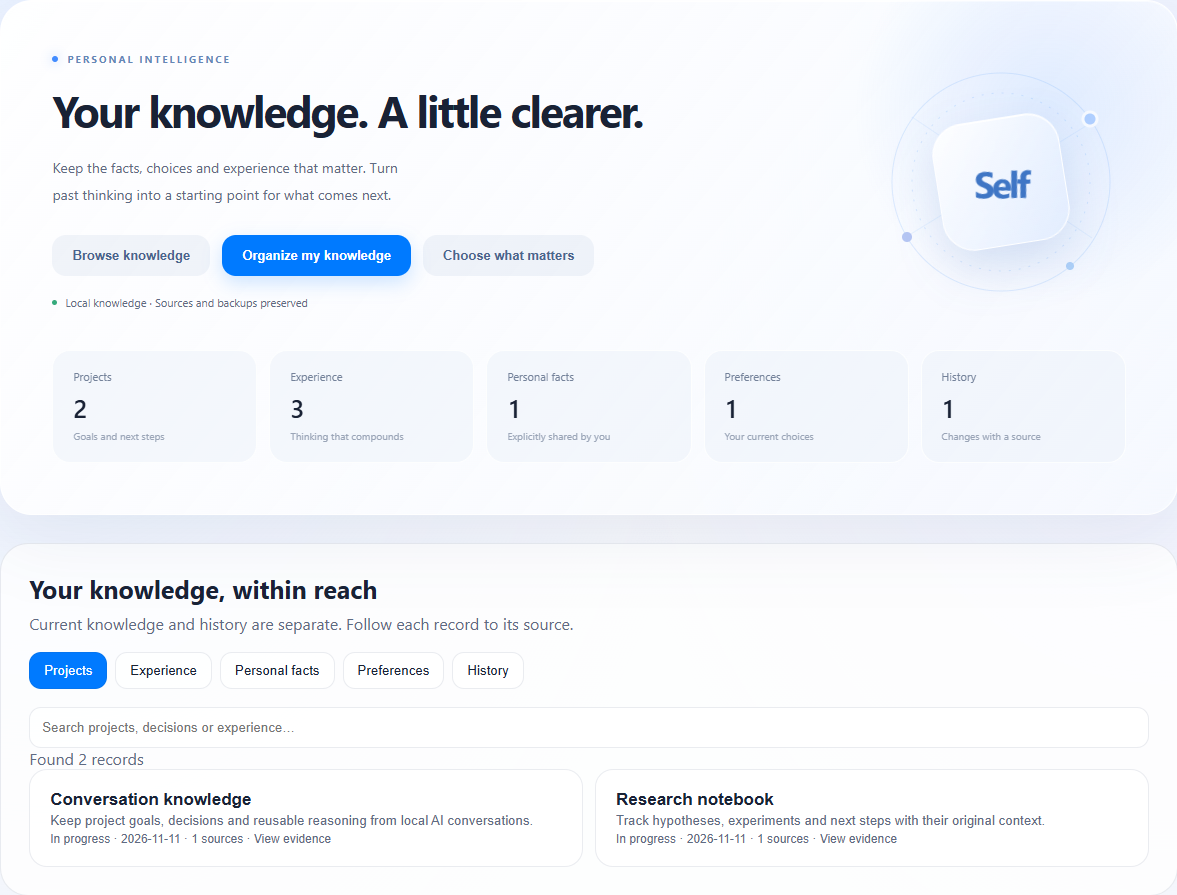
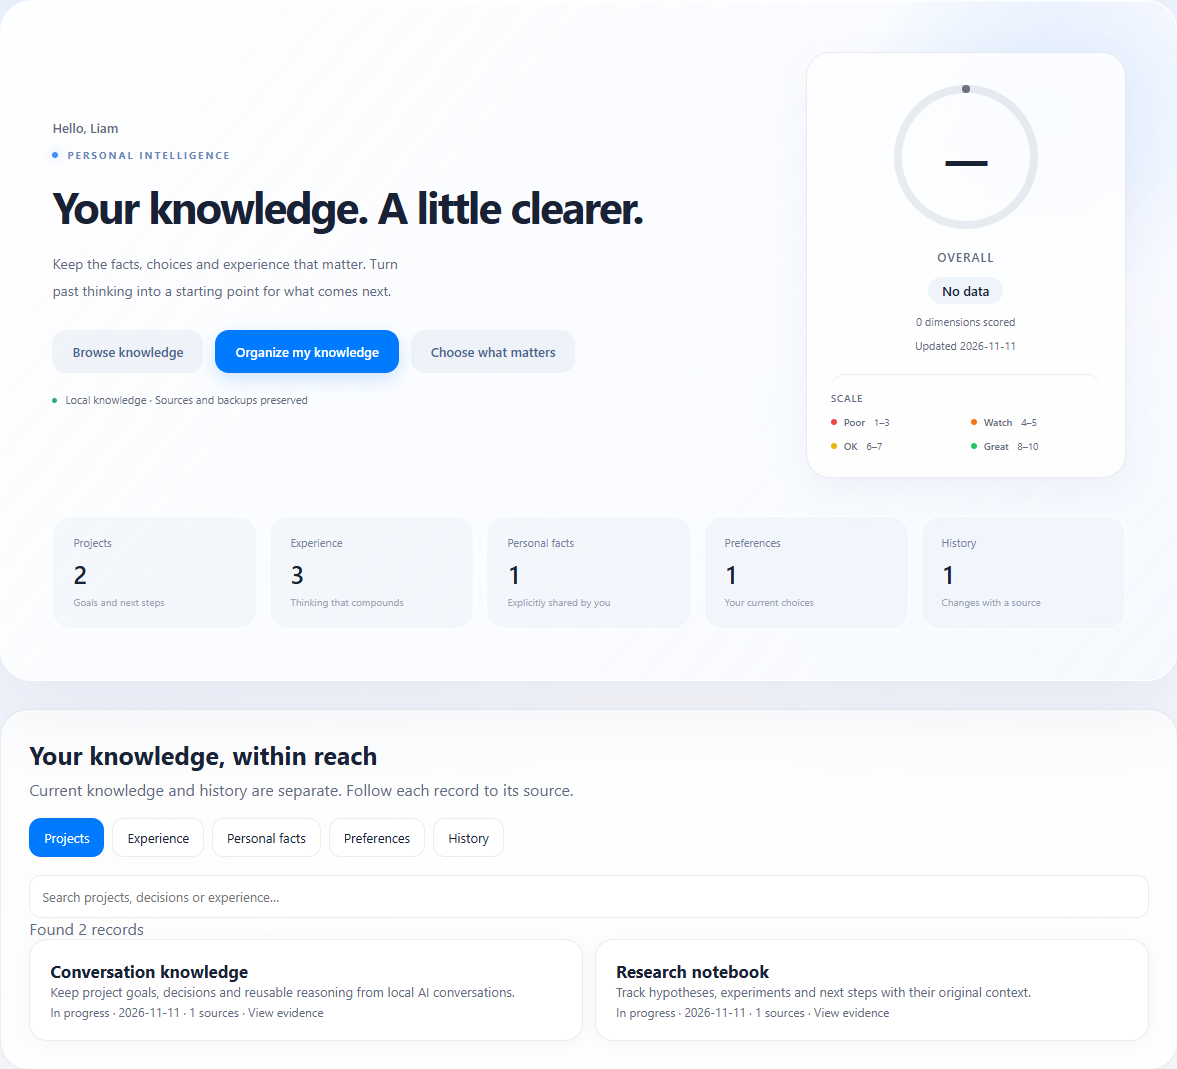
fix: localize knowledge import settings and refresh the dashboard screenshot

diff --git a/knowledge_ui.py b/knowledge_ui.py
@@ -1,34 +1,61 @@
 """Shared dashboard controls, embedded unchanged by the dashboard generator."""
-CONTROLS = r'''<button class="harvest-btn" onclick="openKnowledgeSettings()">整理设置</button>
+def refresh_controls(html):
+    """Refresh settings in previously generated dashboards without a new import."""
+    import re
+    return re.sub(r'<button class="harvest-btn" onclick="openKnowledgeSettings\(\)"[^>]*>.*?<script>\s*let knowledgeOperation.*?</script>',
+                  lambda _:CONTROLS.rstrip(),html,count=1,flags=re.S)
+
+CONTROLS = r'''<button class="harvest-btn" onclick="openKnowledgeSettings()" data-zh="整理设置" data-en="Import settings">Import settings</button>
 <dialog id="knowledge-settings" style="background:var(--bg,#fff);color:var(--text,#222);border-radius:16px;max-width:560px;padding:24px">
-  <h3>知识库整理设置</h3>
-  <p>关注领域决定保留范围；原始对话保留。详细程度控制表达粒度，不设知识总数。</p>
+  <h3 data-zh="知识库整理设置" data-en="Knowledge import settings">Knowledge import settings</h3>
+  <p data-zh="关注领域决定保留范围；原始对话保留。详细程度控制表达粒度，不设知识总数。" data-en="Focus domains determine what to retain. Original conversations are preserved. Detail controls how much context to keep, not the number of records.">Focus domains determine what to retain. Original conversations are preserved. Detail controls how much context to keep, not the number of records.</p>
   <div id="knowledge-domains"></div>
-  <p><label>自定义领域（逗号分隔） <input id="knowledge-custom" placeholder="例如：音乐, 旅行"></label></p>
-  <p><label>详细程度 <select id="knowledge-detail"><option value="concise">简洁</option><option value="balanced">标准</option><option value="detailed">详细</option></select></label></p>
+  <p><label><span data-zh="自定义领域（逗号分隔）" data-en="Custom domains (comma-separated)">Custom domains (comma-separated)</span> <input id="knowledge-custom" placeholder="For example: music, travel"></label></p>
+  <p><label><span data-zh="详细程度" data-en="Detail level">Detail level</span> <select id="knowledge-detail"><option value="concise" data-zh="简洁" data-en="Concise">Concise</option><option value="balanced" data-zh="标准" data-en="Balanced">Balanced</option><option value="detailed" data-zh="详细" data-en="Detailed">Detailed</option></select></label></p>
   <p id="knowledge-status" role="status"></p>
-  <button onclick="saveKnowledgeSettings(false)">保存设置</button>
-  <button onclick="saveKnowledgeSettings(true)">保存并重建</button>
-  <button id="knowledge-undo" onclick="undoKnowledge()">撤销上次整理</button>
-  <button onclick="document.getElementById('knowledge-settings').close()">关闭</button>
+  <button onclick="saveKnowledgeSettings(false)" data-zh="保存设置" data-en="Save settings">Save settings</button>
+  <button onclick="saveKnowledgeSettings(true)" data-zh="保存并重建" data-en="Save and rebuild">Save and rebuild</button>
+  <button id="knowledge-undo" onclick="undoKnowledge()" data-zh="撤销上次整理" data-en="Undo last import">Undo last import</button>
+  <button onclick="document.getElementById('knowledge-settings').close()" data-zh="关闭" data-en="Close">Close</button>
 </dialog>
 <script>
 let knowledgeOperation = null;
-const knowledgeDomains = {work:'工作',research:'研究',learning:'学习',personal:'个人信息与偏好',life:'生活',health:'健康'};
+let knowledgeStatusTranslation = null;
+const knowledgeDomains = {work:['工作','Work'],research:['研究','Research'],learning:['学习','Learning'],personal:['个人信息与偏好','Personal facts and preferences'],life:['生活','Life'],health:['健康','Health']};
+const knowledgeText = (zh,en) => document.documentElement.lang === 'zh' ? zh : en;
+function setKnowledgeStatus(zh,en) {
+  knowledgeStatusTranslation=[zh,en];
+  document.getElementById('knowledge-status').textContent=knowledgeText(zh,en);
+}
+function knowledgeSettingsError(error) {
+  knowledgeStatusTranslation=null;
+  document.getElementById('knowledge-status').textContent=error.message;
+}
+function translateKnowledgeSettings() {
+  document.querySelectorAll('#knowledge-domains [data-domain]').forEach(span=>{
+    span.textContent=knowledgeText(...knowledgeDomains[span.dataset.domain]);
+  });
+  document.getElementById('knowledge-custom').placeholder=knowledgeText('例如：音乐, 旅行','For example: music, travel');
+  if(knowledgeStatusTranslation)document.getElementById('knowledge-status').textContent=knowledgeText(...knowledgeStatusTranslation);
+}
+document.addEventListener('selfos-language',translateKnowledgeSettings);
+document.addEventListener('DOMContentLoaded',translateKnowledgeSettings);
 async function knowledgeRequest(url, body) {
   const response = await fetch(url, body === undefined ? {} : {method:'POST',headers:{'Content-Type':'application/json'},body:JSON.stringify(body)});
   const data = await response.json();
-  if (!response.ok) throw new Error(data.error || '请求失败');
+  if (!response.ok) throw new Error(data.error || knowledgeText('请求失败','Request failed'));
   return data;
 }
 function displayKnowledgeStatus(data) {
   knowledgeOperation = data.last_operation ? data.last_operation.id : null;
   document.getElementById('knowledge-undo').disabled = !knowledgeOperation;
-  document.getElementById('knowledge-status').textContent = data.needs_rebuild ? '设置已变化，下次整理会自动重建。' : '设置已保存。';
+  if(data.needs_rebuild)setKnowledgeStatus('设置已变化，下次整理会自动重建。','Settings changed. The next import will rebuild automatically.');
+  else setKnowledgeStatus('设置已保存。','Settings saved.');
 }
 async function openKnowledgeSettings() {
   const dialog = document.getElementById('knowledge-settings');
   dialog.showModal();
+  setKnowledgeStatus('正在加载设置…','Loading settings…');
   try {
     const data = await knowledgeRequest('/__knowledge_settings__');
     const container = document.getElementById('knowledge-domains');
@@ -38,12 +65,13 @@ async function openKnowledgeSettings() {
       label.style.marginRight = '12px';
       const input = document.createElement('input');
       input.type = 'checkbox'; input.value = key; input.checked = data.settings.domains.includes(key);
-      label.append(input, document.createTextNode(title)); container.append(label);
+      const span=document.createElement('span');span.dataset.domain=key;span.textContent=knowledgeText(...title);
+      label.append(input,span); container.append(label);
     }
     document.getElementById('knowledge-custom').value = data.settings.domains.filter(d => !(d in knowledgeDomains)).join(', ');
     document.getElementById('knowledge-detail').value = data.settings.detail;
     displayKnowledgeStatus(data);
-  } catch (error) { document.getElementById('knowledge-status').textContent = error.message; }
+  } catch (error) { knowledgeSettingsError(error); }
 }
 async function saveKnowledgeSettings(rebuild) {
   try {
@@ -52,15 +80,15 @@ async function saveKnowledgeSettings(rebuild) {
     const data = await knowledgeRequest('/__knowledge_settings__', {domains:[...new Set(domains)],detail:document.getElementById('knowledge-detail').value});
     displayKnowledgeStatus(data);
     if (rebuild) { document.getElementById('knowledge-settings').close(); confirmHarvest(false, true, true); }
-  } catch (error) { document.getElementById('knowledge-status').textContent = error.message; }
+  } catch (error) { knowledgeSettingsError(error); }
 }
 async function undoKnowledge() {
   const button = document.getElementById('knowledge-undo'); button.disabled = true;
   try {
     const data = await knowledgeRequest('/__knowledge_restore__', {operation_id:knowledgeOperation});
     displayKnowledgeStatus(data);
-    document.getElementById('knowledge-status').textContent = '上次整理已撤销，备份保留。';
-  } catch (error) { document.getElementById('knowledge-status').textContent = error.message; button.disabled = !knowledgeOperation; }
+    setKnowledgeStatus('上次整理已撤销，备份保留。','Last import undone. Backups are retained.');
+  } catch (error) { knowledgeSettingsError(error); button.disabled = !knowledgeOperation; }
 }
 </script>
 '''

diff --git a/tests/test_knowledge_ui_language.py b/tests/test_knowledge_ui_language.py
@@ -1,0 +1,9 @@
+from knowledge_ui import CONTROLS,refresh_controls
+
+def test_refresh_legacy_settings_preserves_surrounding_dashboard_and_is_idempotent():
+    old='<button class="harvest-btn" onclick="openKnowledgeSettings()">整理设置</button><dialog id="knowledge-settings">legacy</dialog><script>let knowledgeOperation = null; legacy();</script>'
+    page='<header>'+old+'</header><main>Personal dashboard</main>'
+    updated=refresh_controls(page)
+    assert updated=='<header>'+CONTROLS.rstrip()+'</header><main>Personal dashboard</main>'
+    assert refresh_controls(updated)==updated
+    assert updated.count('let knowledgeOperation')==1

diff --git a/serve.py b/serve.py
@@ -279,6 +279,8 @@ class Handler(BaseHTTPRequestHandler):
                 body = DASHBOARD.read_bytes()
                 from dashboard_ui import STYLE, integrate_overall
                 page=body.decode('utf-8')
+                from knowledge_ui import refresh_controls
+                page=refresh_controls(page)
                 page=re.sub(r'<style id="selfos-visual-system">.*?</style>',lambda _:STYLE,page,count=1,flags=re.S)
                 body=integrate_overall(page).encode('utf-8')
                 body=body.replace(b"let lang = localStorage.getItem('selfos-lang') === 'en' ? 'en' : 'zh';",
